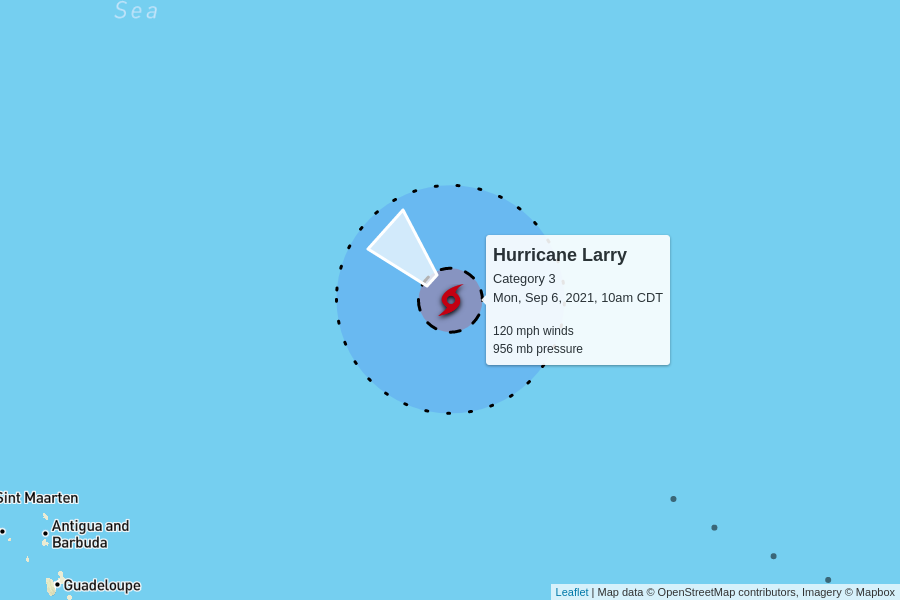
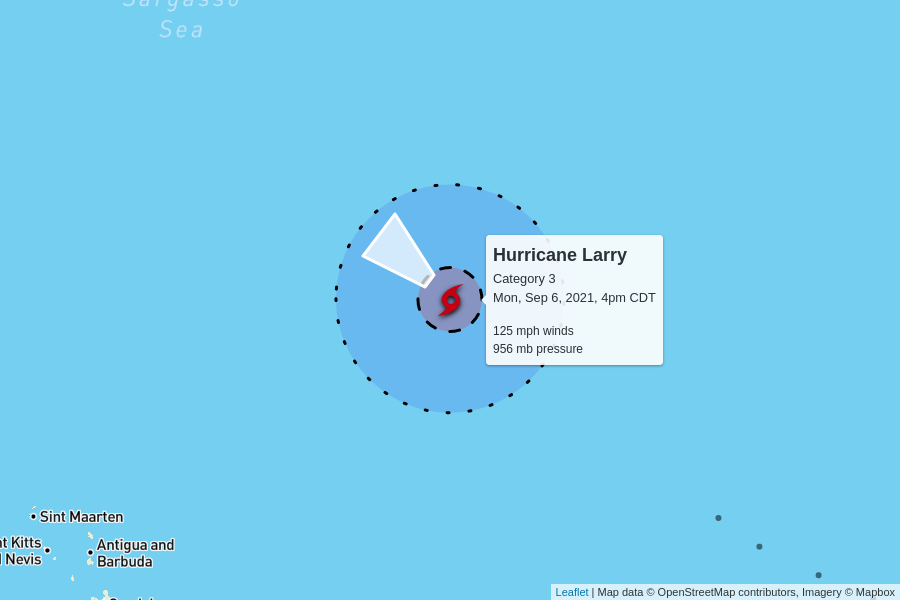
automatic update

diff --git a/docs/index.html b/docs/index.html
@@ -100,7 +100,7 @@
         <td colspan="6" class="storm category-3">
           <h2>
             Hurricane Larry - Category 3
-            <p class="updated">last updated <span data-time>2021-09-06T15:00:00.000Z</span></p>
+            <p class="updated">last updated <span data-time>2021-09-06T21:00:00.000Z</span></p>
           </h2>
         </td>
       </tr>
@@ -115,12 +115,12 @@
       </tr>
       <tr>
         <td class="spacer"></td>
-        <td>120 mph</td>
+        <td>125 mph</td>
         <td>956 mb</td>
         <td>
           10 mph to the northwest
           <br/>
-          <span style="display: inline-block; font-size: 1.5em; transform: rotate(315deg);">↑</span>
+          <span style="display: inline-block; font-size: 1.5em; transform: rotate(310deg);">↑</span>
         </td>
         <td><a href="https://raw.githubusercontent.com/mgwalker/atlantic-hurricanes/main/data/csv/AL122021.csv">AL122021.csv</a></td>
         <td><a href="https://www.nhc.noaa.gov/archive/2021/LARRY.shtml?">NHC advisories</a></td>
